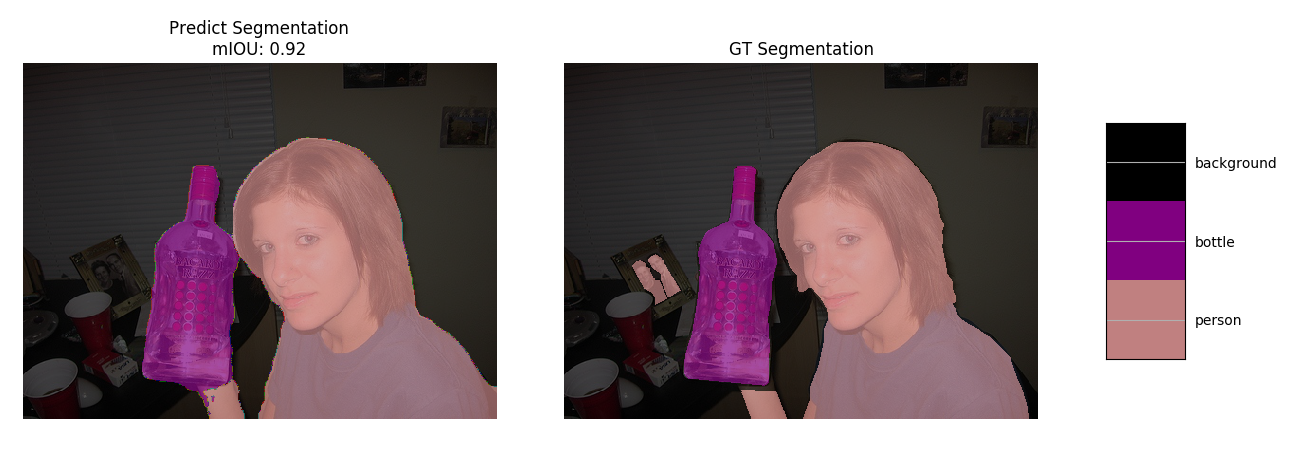
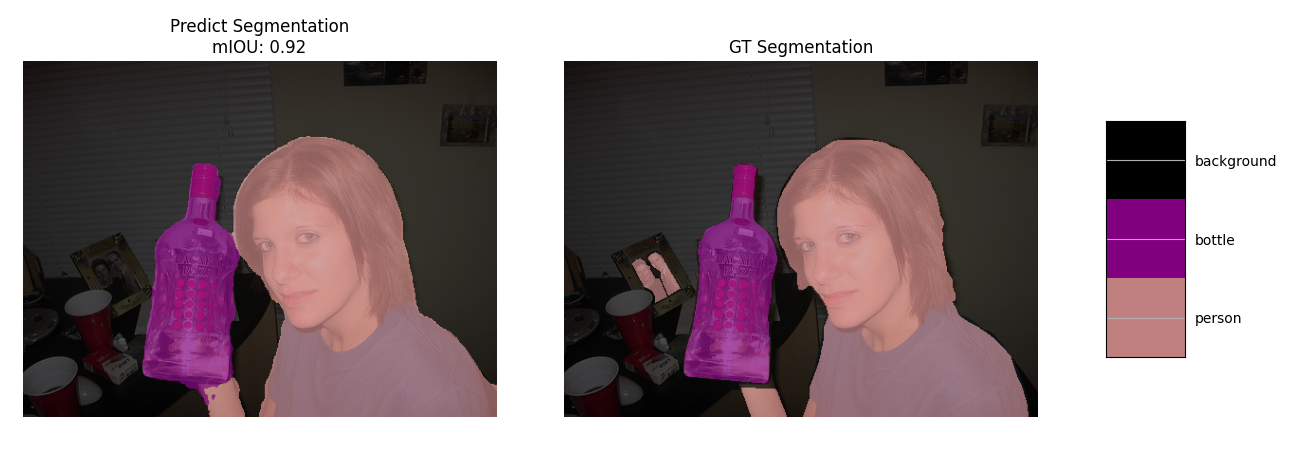
fix input normalize issue

diff --git a/tools/evaluation/validate_deeplab.py b/tools/evaluation/validate_deeplab.py
@@ -16,7 +16,7 @@ from tensorflow.lite.python import interpreter as interpreter_wrapper
 import tensorflow as tf
 
 sys.path.append(os.path.join(os.path.dirname(os.path.realpath(__file__)), '..', '..'))
-from common.data_utils import preprocess_image, mask_resize
+from common.data_utils import preprocess_image, denormalize_image, mask_resize
 from common.utils import get_custom_objects, get_classes, visualize_segmentation
 from deeplabv3p.metrics import mIOU
 from deeplabv3p.postprocess_np import crf_postprocess
@@ -36,7 +36,7 @@ def validate_deeplab_model(model_path, image_file, class_names, model_input_shap
     # prepare input image
     img = Image.open(image_file)
     image_data = preprocess_image(img, model_input_shape)
-    image = image_data[0].astype('uint8')
+    image = denormalize_image(image_data[0])
     #origin image shape, in (width, height) format
     origin_image_size = img.size
 
@@ -79,7 +79,7 @@ def validate_deeplab_model_onnx(model_path, image_file, class_names, do_crf, lab
     # prepare input image
     img = Image.open(image_file)
     image_data = preprocess_image(img, model_input_shape)
-    image = image_data[0].astype('uint8')
+    image = denormalize_image(image_data[0])
     #origin image shape, in (width, height) format
     origin_image_size = img.size
 
@@ -119,13 +119,18 @@ def validate_deeplab_model_mnn(model_path, image_file, class_names, do_crf, labe
     # prepare input image
     img = Image.open(image_file)
     image_data = preprocess_image(img, model_input_shape)
-    image = image_data[0].astype('uint8')
+    image = denormalize_image(image_data[0])
     #origin image shape, in (width, height) format
     origin_image_size = img.size
 
-    # use a temp tensor to copy data
-    tmp_input = MNN.Tensor(input_shape, input_tensor.getDataType(),\
-                    image_data, input_tensor.getDimensionType())
+    # create a temp tensor to copy data
+    # use TF NHWC layout to align with image data array
+    # TODO: currently MNN python binding have mem leak when creating MNN.Tensor
+    # from numpy array, only from tuple is good. So we convert input image to tuple
+    tmp_input_shape = (batch, height, width, channel)
+    input_elementsize = reduce(mul, tmp_input_shape)
+    tmp_input = MNN.Tensor(tmp_input_shape, input_tensor.getDataType(),\
+                    tuple(image_data.reshape(input_elementsize, -1)), MNN.Tensor_DimensionType_Tensorflow)
 
     # predict once first to bypass the model building time
     input_tensor.copyFrom(tmp_input)
@@ -158,7 +163,7 @@ def validate_deeplab_model_mnn(model_path, image_file, class_names, do_crf, labe
     output_tensor.copyToHostTensor(tmp_output)
 
     output_data = np.array(tmp_output.getData(), dtype=float).reshape(output_shape)
-    # our postprocess code based on TF channel last format, so if the output format
+    # our postprocess code based on TF NHWC layout, so if the output format
     # doesn't match, we need to transpose
     if output_tensor.getDimensionType() == MNN.Tensor_DimensionType_Caffe:
         output_data = output_data.transpose((0,2,3,1))
@@ -229,7 +234,7 @@ def validate_deeplab_model_pb(model_path, image_file, class_names, do_crf, label
     # prepare input image
     img = Image.open(image_file)
     image_data = preprocess_image(img, model_input_shape)
-    image = image_data[0].astype('uint8')
+    image = denormalize_image(image_data[0])
     #origin image shape, in (width, height) format
     origin_image_size = img.size
 
@@ -276,7 +281,7 @@ def validate_deeplab_model_tflite(model_path, image_file, class_names, do_crf, l
     # prepare input image
     img = Image.open(image_file)
     image_data = preprocess_image(img, model_input_shape)
-    image = image_data[0].astype('uint8')
+    image = denormalize_image(image_data[0])
     #origin image shape, in (width, height) format
     origin_image_size = img.size
 

diff --git a/deeplabv3p/models/deeplabv3p_mobilenetv3.py b/deeplabv3p/models/deeplabv3p_mobilenetv3.py
@@ -664,10 +664,10 @@ def Deeplabv3pMobileNetV3Large(input_shape=(512, 512, 3),
         img_input = input_tensor
 
     # normalize input image
-    img_norm = Lambda(normalize, name='input_normalize')(img_input)
+    #img_norm = Lambda(normalize, name='input_normalize')(img_input)
 
     # backbone body for feature extract
-    x, skip_feature, backbone_len = MobileNetV3Large(include_top=False, input_tensor=img_norm, weights=weights, OS=OS, alpha=alpha)
+    x, skip_feature, backbone_len = MobileNetV3Large(include_top=False, input_tensor=img_input, weights=weights, OS=OS, alpha=alpha)
 
     # ASPP block
     x = ASPP_block(x, OS)
@@ -736,10 +736,10 @@ def Deeplabv3pLiteMobileNetV3Large(input_shape=(512, 512, 3),
         img_input = input_tensor
 
     # normalize input image
-    img_norm = Lambda(normalize, name='input_normalize')(img_input)
+    #img_norm = Lambda(normalize, name='input_normalize')(img_input)
 
     # backbone body for feature extract
-    x, _, backbone_len = MobileNetV3Large(include_top=False, input_tensor=img_norm, weights=weights, OS=OS, alpha=alpha)
+    x, _, backbone_len = MobileNetV3Large(include_top=False, input_tensor=img_input, weights=weights, OS=OS, alpha=alpha)
 
     # use ASPP Lite block & no decode block
     x = ASPP_Lite_block(x)
@@ -802,10 +802,10 @@ def Deeplabv3pMobileNetV3Small(input_shape=(512, 512, 3),
         img_input = input_tensor
 
     # normalize input image
-    img_norm = Lambda(normalize, name='input_normalize')(img_input)
+    #img_norm = Lambda(normalize, name='input_normalize')(img_input)
 
     # backbone body for feature extract
-    x, skip_feature, backbone_len = MobileNetV3Small(include_top=False, input_tensor=img_norm, weights=weights, OS=OS, alpha=alpha)
+    x, skip_feature, backbone_len = MobileNetV3Small(include_top=False, input_tensor=img_input, weights=weights, OS=OS, alpha=alpha)
 
     # ASPP block
     x = ASPP_block(x, OS)
@@ -875,10 +875,10 @@ def Deeplabv3pLiteMobileNetV3Small(input_shape=(512, 512, 3),
         img_input = input_tensor
 
     # normalize input image
-    img_norm = Lambda(normalize, name='input_normalize')(img_input)
+    #img_norm = Lambda(normalize, name='input_normalize')(img_input)
 
     # backbone body for feature extract
-    x, _, backbone_len = MobileNetV3Small(include_top=False, input_tensor=img_norm, weights=weights, OS=OS, alpha=alpha)
+    x, _, backbone_len = MobileNetV3Small(include_top=False, input_tensor=img_input, weights=weights, OS=OS, alpha=alpha)
 
     # use ASPP Lite block & no decode block
     x = ASPP_Lite_block(x)

diff --git a/eval.py b/eval.py
@@ -94,13 +94,22 @@ def deeplab_predict_mnn(interpreter, session, image_data):
     input_tensor = interpreter.getSessionInput(session)
     # get input shape
     input_shape = input_tensor.getShape()
+    if input_tensor.getDimensionType() == MNN.Tensor_DimensionType_Tensorflow:
+        batch, height, width, channel = input_shape
+    elif input_tensor.getDimensionType() == MNN.Tensor_DimensionType_Caffe:
+        batch, channel, height, width = input_shape
+    else:
+        # should be MNN.Tensor_DimensionType_Caffe_C4, unsupported now
+        raise ValueError('unsupported input tensor dimension type')
 
-    # use a temp tensor to copy data
+    # create a temp tensor to copy data,
+    # use TF NHWC layout to align with image data array
     # TODO: currently MNN python binding have mem leak when creating MNN.Tensor
     # from numpy array, only from tuple is good. So we convert input image to tuple
-    input_elementsize = reduce(mul, input_shape)
-    tmp_input = MNN.Tensor(input_shape, input_tensor.getDataType(),\
-                    tuple(image_data.reshape(input_elementsize, -1)), input_tensor.getDimensionType())
+    tmp_input_shape = (batch, height, width, channel)
+    input_elementsize = reduce(mul, tmp_input_shape)
+    tmp_input = MNN.Tensor(tmp_input_shape, input_tensor.getDataType(),\
+                    tuple(image_data.reshape(input_elementsize, -1)), MNN.Tensor_DimensionType_Tensorflow)
 
     input_tensor.copyFrom(tmp_input)
     interpreter.runSession(session)
@@ -121,7 +130,7 @@ def deeplab_predict_mnn(interpreter, session, image_data):
     #tmp_output.printTensorData()
 
     output_data = np.array(tmp_output.getData(), dtype=float).reshape(output_shape)
-    # our postprocess code based on TF channel last format, so if the output format
+    # our postprocess code based on TF NHWC layout, so if the output format
     # doesn't match, we need to transpose
     if output_tensor.getDimensionType() == MNN.Tensor_DimensionType_Caffe:
         output_data = output_data.transpose((0,2,3,1))

diff --git a/inference/MNN/deeplabSegment.cpp b/inference/MNN/deeplabSegment.cpp
@@ -177,7 +177,7 @@ void deeplab_postprocess(const Tensor* mask_tensor, uint8_t* mask_array, std::ve
 }
 
 
-//Resize image to model input shape
+// Resize image to model input shape
 uint8_t* image_resize(uint8_t* inputImage, int image_width, int image_height, int image_channel, int input_width, int input_height, int input_channel)
 {
     // assume the data channel match
@@ -192,6 +192,31 @@ uint8_t* image_resize(uint8_t* inputImage, int image_width, int image_height, in
                      input_image, input_width, input_height, 0, image_channel);
 
     return input_image;
+}
+
+
+// Nearest resize predict mask
+uint8_t* mask_resize(uint8_t* input_mask, int mask_width, int mask_height, int target_width, int target_height)
+{
+    float scale_w = float(mask_width) / float(target_width);
+    float scale_h = float(mask_height) / float(target_height);
+
+    uint8_t* resized_mask = (uint8_t*)malloc(target_height * target_width * sizeof(uint8_t));
+    if (resized_mask == nullptr) {
+        MNN_PRINT("Can't alloc memory\n");
+        exit(-1);
+    }
+
+    // go through resized mask to get nearest value
+    for (int h = 0; h < target_height; h++) {
+        for (int w = 0; w < target_width; w++) {
+            int mask_x = int(w * scale_w);
+            int mask_y = int(h * scale_h);
+            resized_mask[h*target_width + w] = input_mask[mask_y*mask_width + mask_x];
+        }
+    }
+
+    return resized_mask;
 }
 
 
@@ -357,7 +382,7 @@ void RunInference(Settings* s) {
     int save_width, save_height;
     if (s->keep_shape) {
         // Resize the prediction mask back to original image shape
-        uint8_t* origin_mask_array = image_resize(mask_array, mask_width, mask_height, 1, image_width, image_height, 1);
+        uint8_t* origin_mask_array = mask_resize(mask_array, mask_width, mask_height, image_width, image_height);
         // free prediction mask
         free(mask_array);
         mask_array = origin_mask_array;

diff --git a/inference/tflite/deeplabSegment.cpp b/inference/tflite/deeplabSegment.cpp
@@ -116,7 +116,7 @@ void deeplab_postprocess(const TfLiteTensor* mask_tensor, uint8_t* mask_array, s
 }
 
 
-//Resize image to model input shape
+// Resize image to model input shape
 uint8_t* image_resize(uint8_t* inputImage, int image_width, int image_height, int image_channel, int input_width, int input_height, int input_channel)
 {
     // assume the data channel match
@@ -131,6 +131,31 @@ uint8_t* image_resize(uint8_t* inputImage, int image_width, int image_height, in
                      input_image, input_width, input_height, 0, image_channel);
 
     return input_image;
+}
+
+
+// Nearest resize predict mask
+uint8_t* mask_resize(uint8_t* input_mask, int mask_width, int mask_height, int target_width, int target_height)
+{
+    float scale_w = float(mask_width) / float(target_width);
+    float scale_h = float(mask_height) / float(target_height);
+
+    uint8_t* resized_mask = (uint8_t*)malloc(target_height * target_width * sizeof(uint8_t));
+    if (resized_mask == nullptr) {
+        LOG(ERROR) << "Can't alloc memory\n";
+        exit(-1);
+    }
+
+    // go through resized mask to get nearest value
+    for (int h = 0; h < target_height; h++) {
+        for (int w = 0; w < target_width; w++) {
+            int mask_x = int(w * scale_w);
+            int mask_y = int(h * scale_h);
+            resized_mask[h*target_width + w] = input_mask[mask_y*mask_width + mask_x];
+        }
+    }
+
+    return resized_mask;
 }
 
 
@@ -321,7 +346,7 @@ void RunInference(Settings* s) {
   int save_width, save_height;
   if (s->keep_shape) {
       // Resize the prediction mask back to original image shape
-      uint8_t* origin_mask_array = image_resize(mask_array, mask_width, mask_height, 1, image_width, image_height, 1);
+      uint8_t* origin_mask_array = mask_resize(mask_array, mask_width, mask_height, image_width, image_height);
       // free prediction mask
       free(mask_array);
       mask_array = origin_mask_array;

diff --git a/deeplabv3p/models/deeplabv3p_peleenet.py b/deeplabv3p/models/deeplabv3p_peleenet.py
@@ -328,10 +328,10 @@ def Deeplabv3pPeleeNet(input_shape=(512, 512, 3),
         img_input = input_tensor
 
     # normalize input image
-    img_norm = Lambda(normalize, name='input_normalize')(img_input)
+    #img_norm = Lambda(normalize, name='input_normalize')(img_input)
 
     # backbone body for feature extract
-    x, skip_feature, backbone_len = PeleeNet(include_top=False, pooling=None, input_tensor=img_norm, weights=weights, OS=OS)
+    x, skip_feature, backbone_len = PeleeNet(include_top=False, pooling=None, input_tensor=img_input, weights=weights, OS=OS)
 
     # ASPP block
     x = ASPP_block(x, OS)
@@ -394,10 +394,10 @@ def Deeplabv3pLitePeleeNet(input_shape=(512, 512, 3),
         img_input = input_tensor
 
     # normalize input image
-    img_norm = Lambda(normalize, name='input_normalize')(img_input)
+    #img_norm = Lambda(normalize, name='input_normalize')(img_input)
 
     # backbone body for feature extract
-    x, _, backbone_len = PeleeNet(include_top=False, pooling=None, input_tensor=img_norm, weights=weights, OS=OS)
+    x, _, backbone_len = PeleeNet(include_top=False, pooling=None, input_tensor=img_input, weights=weights, OS=OS)
 
     # use ASPP Lite block & no decode block
     x = ASPP_Lite_block(x)

diff --git a/deeplabv3p/models/deeplabv3p_ghostnet.py b/deeplabv3p/models/deeplabv3p_ghostnet.py
@@ -517,10 +517,10 @@ def Deeplabv3pGhostNet(input_shape=(512, 512, 3),
         img_input = input_tensor
 
     # normalize input image
-    img_norm = Lambda(normalize, name='input_normalize')(img_input)
+    #img_norm = Lambda(normalize, name='input_normalize')(img_input)
 
     # backbone body for feature extract
-    x, skip_feature, backbone_len = GhostNet(include_top=False, input_tensor=img_norm, weights=weights, OS=OS)
+    x, skip_feature, backbone_len = GhostNet(include_top=False, input_tensor=img_input, weights=weights, OS=OS)
 
     # ASPP block
     x = ASPP_block(x, OS)
@@ -584,10 +584,10 @@ def Deeplabv3pLiteGhostNet(input_shape=(512, 512, 3),
         img_input = input_tensor
 
     # normalize input image
-    img_norm = Lambda(normalize, name='input_normalize')(img_input)
+    #img_norm = Lambda(normalize, name='input_normalize')(img_input)
 
     # backbone body for feature extract
-    x, _, backbone_len = GhostNet(include_top=False, input_tensor=img_norm, weights=weights, OS=OS)
+    x, _, backbone_len = GhostNet(include_top=False, input_tensor=img_input, weights=weights, OS=OS)
 
     # use ASPP Lite block & no decode block
     x = ASPP_Lite_block(x)

diff --git a/deeplabv3p/models/deeplabv3p_mobilenetv2.py b/deeplabv3p/models/deeplabv3p_mobilenetv2.py
@@ -237,10 +237,10 @@ def Deeplabv3pMobileNetV2(input_shape=(512, 512, 3),
         img_input = input_tensor
 
     # normalize input image
-    img_norm = Lambda(normalize, name='input_normalize')(img_input)
+    #img_norm = Lambda(normalize, name='input_normalize')(img_input)
 
     # backbone body for feature extract
-    x, skip_feature, backbone_len = MobileNetV2_body(img_norm, OS, alpha, weights=weights)
+    x, skip_feature, backbone_len = MobileNetV2_body(img_input, OS, alpha, weights=weights)
 
     # ASPP block
     x = ASPP_block(x, OS)
@@ -315,10 +315,10 @@ def Deeplabv3pLiteMobileNetV2(input_shape=(512, 512, 3),
         img_input = input_tensor
 
     # normalize input image
-    img_norm = Lambda(normalize, name='input_normalize')(img_input)
+    #img_norm = Lambda(normalize, name='input_normalize')(img_input)
 
     # backbone body for feature extract
-    x, _, backbone_len = MobileNetV2_body(img_norm, OS, alpha, weights=weights)
+    x, _, backbone_len = MobileNetV2_body(img_input, OS, alpha, weights=weights)
 
     # use ASPP Lite block & no decode block
     x = ASPP_Lite_block(x)

diff --git a/deeplabv3p/models/deeplabv3p_resnet50.py b/deeplabv3p/models/deeplabv3p_resnet50.py
@@ -359,10 +359,10 @@ def Deeplabv3pResNet50(input_shape=(512, 512, 3),
         img_input = input_tensor
 
     # normalize input image
-    img_norm = Lambda(normalize, name='input_normalize')(img_input)
+    #img_norm = Lambda(normalize, name='input_normalize')(img_input)
 
     # backbone body for feature extract
-    x, skip_feature, backbone_len = ResNet50(include_top=False, input_tensor=img_norm, weights=weights, OS=OS)
+    x, skip_feature, backbone_len = ResNet50(include_top=False, input_tensor=img_input, weights=weights, OS=OS)
 
     # ASPP block
     x = ASPP_block(x, OS)

diff --git a/deeplabv3p/models/deeplabv3p_xception.py b/deeplabv3p/models/deeplabv3p_xception.py
@@ -203,10 +203,10 @@ def Deeplabv3pXception(input_shape=(512, 512, 3),
         img_input = input_tensor
 
     # normalize input image
-    img_norm = Lambda(normalize, name='input_normalize')(img_input)
+    #img_norm = Lambda(normalize, name='input_normalize')(img_input)
 
     # backbone body for feature extract
-    x, skip_feature, backbone_len = Xception_body(img_norm, OS)
+    x, skip_feature, backbone_len = Xception_body(img_input, OS)
 
     # ASPP block
     x = ASPP_block(x, OS)

diff --git a/common/data_utils.py b/common/data_utils.py
@@ -449,7 +449,7 @@ def preprocess_image(image, model_input_shape):
     """
     resized_image = image.resize(model_input_shape[::-1], Image.BICUBIC)
     image_data = np.asarray(resized_image).astype('float32')
-    #image_data = normalize_image(image_data)
+    image_data = normalize_image(image_data)
     image_data = np.expand_dims(image_data, 0)
     return image_data
 
